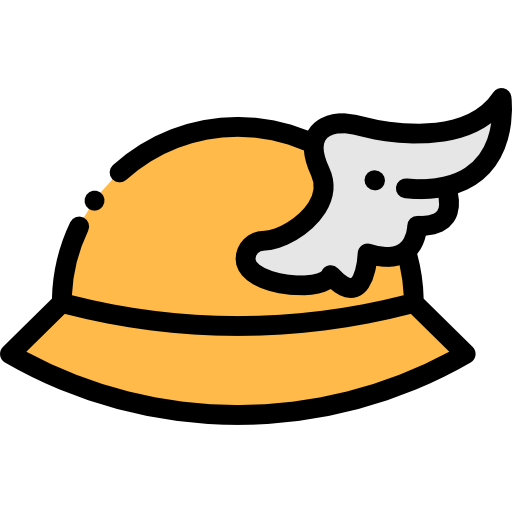
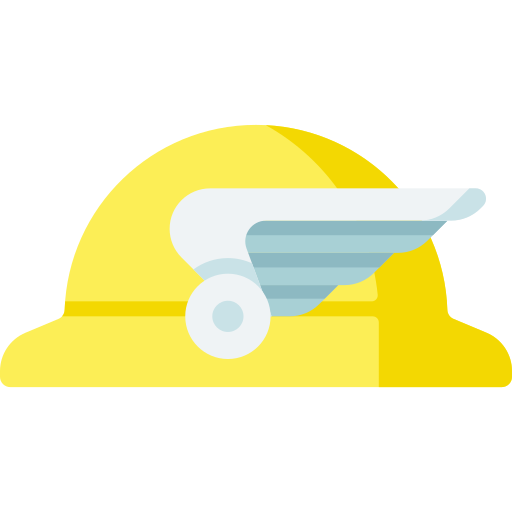
add working (1st interface) home-page

diff --git a/index.html b/index.html
@@ -9,6 +9,8 @@
         <meta name="viewport" content="width=device-width, initial-scale=1.0">
         <title>Document</title>
 
+        <link rel="icon" href="images/favicon.png">
+
         <link rel="preconnect" href="https://fonts.gstatic.com">
         <link href="https://fonts.googleapis.com/css2?family=Krona+One&family=Lobster&family=Raleway+Dots&family=Righteous&display=swap" rel="stylesheet"> 
 
@@ -17,8 +19,14 @@
 
         <style>
 
-            #main-header {
+            main {
+                display: grid;
+                background: linear-gradient(black, cornflowerblue, dodgerblue);
+            }
 
+            /* main-header section styles */
+
+            #main-header {
                 height: 100px;
 
                 border-top: solid goldenrod;
@@ -31,7 +39,6 @@
             }
 
             #main-header h1 {
-                
                 font-family: 'Righteous', cursive;
 
                 color: goldenrod;
@@ -45,18 +52,76 @@
                 color: snow;
             }
 
-            
+            /* services section styles */
 
+            #services-container {
+                height: 100%;
+                width: 100%;
+
+                display: grid;
+                grid-template-columns: 1fr 1fr;
+                justify-items: center;
+                align-items: center;
+            }
+
+            .service {
+                border: solid 3px goldenrod;
+                border-radius: 15px;
+
+                display: grid;
+               
+                background-color: black;
+                color: snow;
+
+                text-align: center;
+            }
+
+            .service h4 {
+                font-family: 'Righteous', cursive;
+                color: goldenrod;
+            }
+
+            .service-logo {
+                margin: auto;
+            }
+
+            .service p {
+                font-family: 'Righteous', cursive;
+                font-style: italic;
+            }
+
+            /* pricing-table styles */
+
+            #pricing-container {
+                margin: auto;
+            }
+            #pricing {
+                text-align: center;
+            }
+
+            #pricing th {
+                border: solid black;
+
+                background-color: black;
+                color: goldenrod;
+
+                font-family: 'Righteous', cursive;
+                font-weight: bold;
+            }
+
+            #pricing td {
+                border: solid black;
+
+                background-color: cornflowerblue;
+                color: snow;
+
+                font-family: 'Righteous', cursive;
+                font-weight: bold;
+            }
+            
             /* mobile and tablet view */
 
             @media (max-width: 992px) {
-
-                main {
-                    display: grid;
-                    
-                }
-
-                /* DONE */
 
                 /* main-header section styles */
 
@@ -76,120 +141,38 @@
                     font-size: 0.75rem;
                 }
 
-                /* CURRENT DEVELOPMENT */
-
                 /* services section styles */
 
                 #services-container {
-
-                    height: 100%;
-                    width: 100%;
-
-                    display: grid;
-                    grid-template-columns: 1fr 1fr;
-                    justify-items: center;
-                    align-items: center;
+                    grid-template-columns: repeat(2, 1fr);
                 }
 
                 .service {
-
                     height: 90%;
-                    width: 85%;
+                    width: 90%;
 
-                    display: flex;
-                    flex-direction: column;
-                    justify-content: space-between;
-                    align-content: center;
-
-                    margin: 0;
-                    padding: 0;
-                    
-                    border: solid 3px goldenrod;
-
-                    background-color: black;
-
-                    color: snow;
-                    text-align: center;
+                    grid-template-rows: 1fr 90px 1fr;
                 }
 
                 .service h4 {
-                    border: solid 2px cyan;
-
-                    margin-top: 0;
-
-                    font-family: 'Righteous', cursive;
-
-                    color: goldenrod;
+                    font-size: 1rem;
                 }
 
                 .service-logo {
-                    border: solid 2px cyan;
-
-                    width: 50%;
+                    width: 90px;
                     height: auto;
-
-                    padding: 0.25rem;
-                    margin: 0 auto;
                 }
 
                 .service p {
-                    font-family: 'Righteous', cursive;
                     font-size: 0.8rem;
-                    font-style: italic;
-                }
-
-                /* pricing-table styles */
-
-                #pricing-container {
-
-                    height: 100%;
-                    width: 100%;
-
-                    margin: auto;
-
-                    text-align: center;
-                    
-                }
-
-                #pricing-container h3 {
-                    
-                    font-family: 'Righteous', cursive;
-
-                    margin: 0;
-                }
-
-                #pricing {
-
-                    margin: auto;
-                    margin-top: 0;
-                }
-
-                #pricing th {
-
-                    margin: 0;
-
-                    font-family: 'Righteous', cursive;
-                    font-weight: bold;
-
-                    background-color: black;
-                    color: goldenrod;
-                }
-
-                #pricing td {
-
-                    margin: 0;
-
-                    font-family: 'Righteous', cursive;
-                    font-weight: bold;
-
-                    background-color: cornflowerblue;
-                    color: snow;
                 }
             }
 
             /* desktop view */
 
             @media (min-width: 992px) {
+
+                /* main-header section styles */
 
                 #main-header {
                     height: 7.5rem;
@@ -207,6 +190,51 @@
                     justify-self: start;
                     margin-left: 0.5rem;
                     font-size: 1rem;
+                }
+
+                /* services section styles */
+
+                #services-container {
+                    grid-template-columns: repeat(4, 1fr);
+                }
+
+                .service {
+                    height: 80%;
+                    width: 80%;
+
+                    grid-template-rows: 1fr 125px 1.5fr;
+                }
+
+                .service h4 {
+                    font-size: 1.4rem;
+                }
+
+                .service-logo {
+                    width: 120px;
+                    height: auto;
+                }
+
+                .service p {
+                    font-size: 1rem;
+                }
+
+                /* pricing-table styles */
+
+                #pricing th {
+                    padding: 0.5rem 1.5rem;
+
+                    border-radius: 10px;
+
+                    font-size: 1.5rem;
+                }
+
+                #pricing td {
+                    padding: 0.2rem 1rem;
+                    
+                    border-radius: 10px;
+                    border-width: 4px;
+
+                    font-size: 1.25rem;
                 }
             }
 
@@ -257,12 +285,12 @@
             <section id="services-container">
                 <div class="service">
                     <h4>Standard</h4>
-                    <img class="service-logo" src="images/hermes(3).png" alt="">
+                    <img class="service-logo" src="images/standard.png" alt="">
                     <p>A Hermes' horseman will deliver your parcel</p>
                 </div>
                 <div class="service">
                     <h4>Express</h4>
-                    <img class="service-logo" src="images/hermes(1).png" alt="">
+                    <img class="service-logo" src="images/express.png" alt="">
                     <p>Hermes will fly your parcel to destination</p>
                 </div>
                 <div class="service">
@@ -278,7 +306,6 @@
             </section>
 
             <section id="pricing-container">
-                <h3>Pricing Table</h3>
                 <table id="pricing">
                     <tr>
                         <th>

diff --git a/style.css b/style.css
@@ -62,17 +62,6 @@ footer {
     margin: 0;
 }
 
-/*
-#credits {
-    position: absolute;
-
-    bottom: 0;
-    
-    left: 0;
-    right: 0;
-}
-*/
-
 #credits a {
     text-decoration: none;
     color: cornflowerblue;
